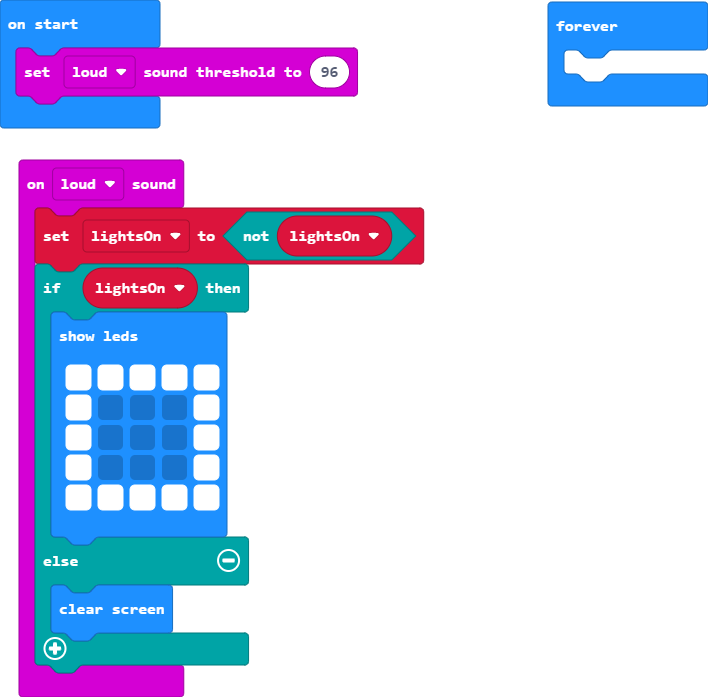
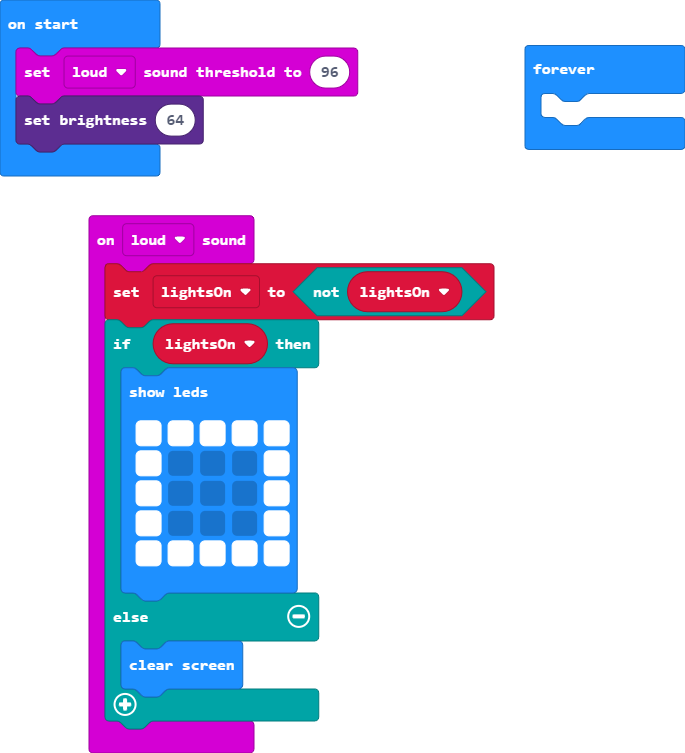
Update main.blocks, main.ts

diff --git a/main.ts b/main.ts
@@ -14,6 +14,7 @@ input.onSound(DetectedSound.Loud, function () {
 })
 let lightsOn = false
 input.setSoundThreshold(SoundThreshold.Loud, 96)
+led.setBrightness(64)
 basic.forever(function () {
 	
 })
